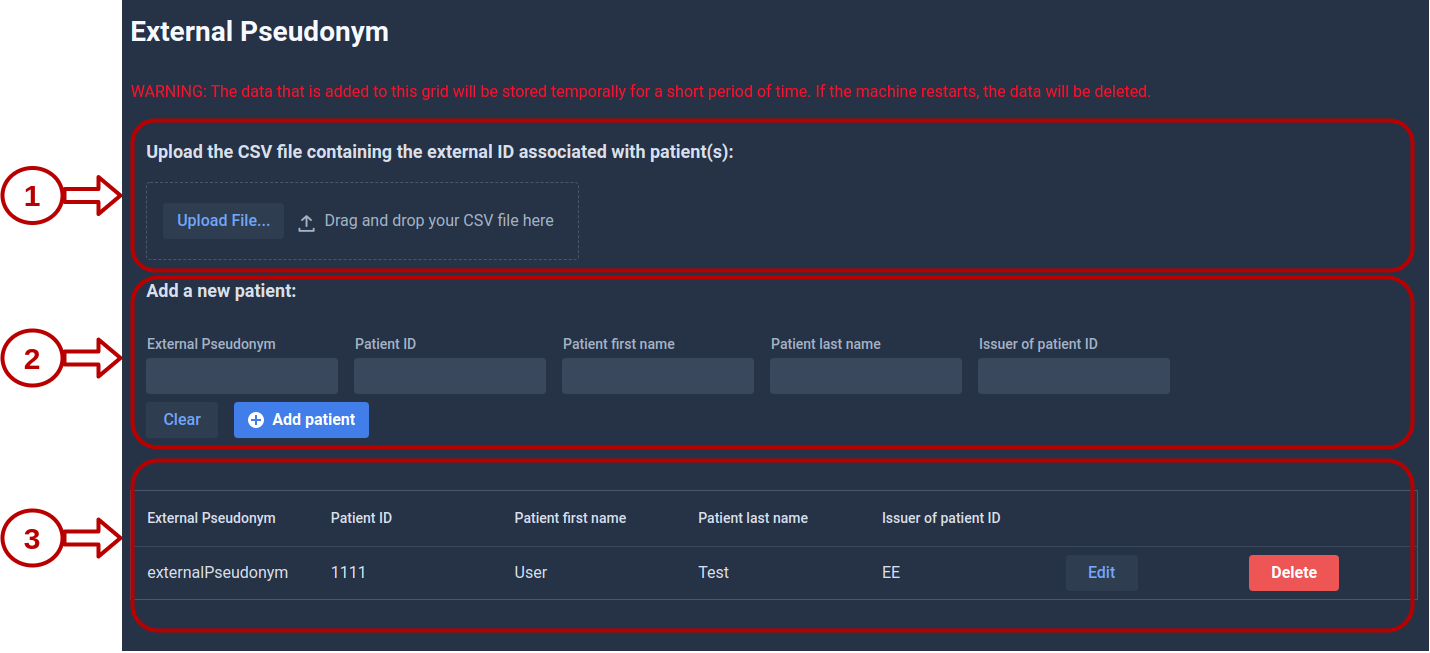
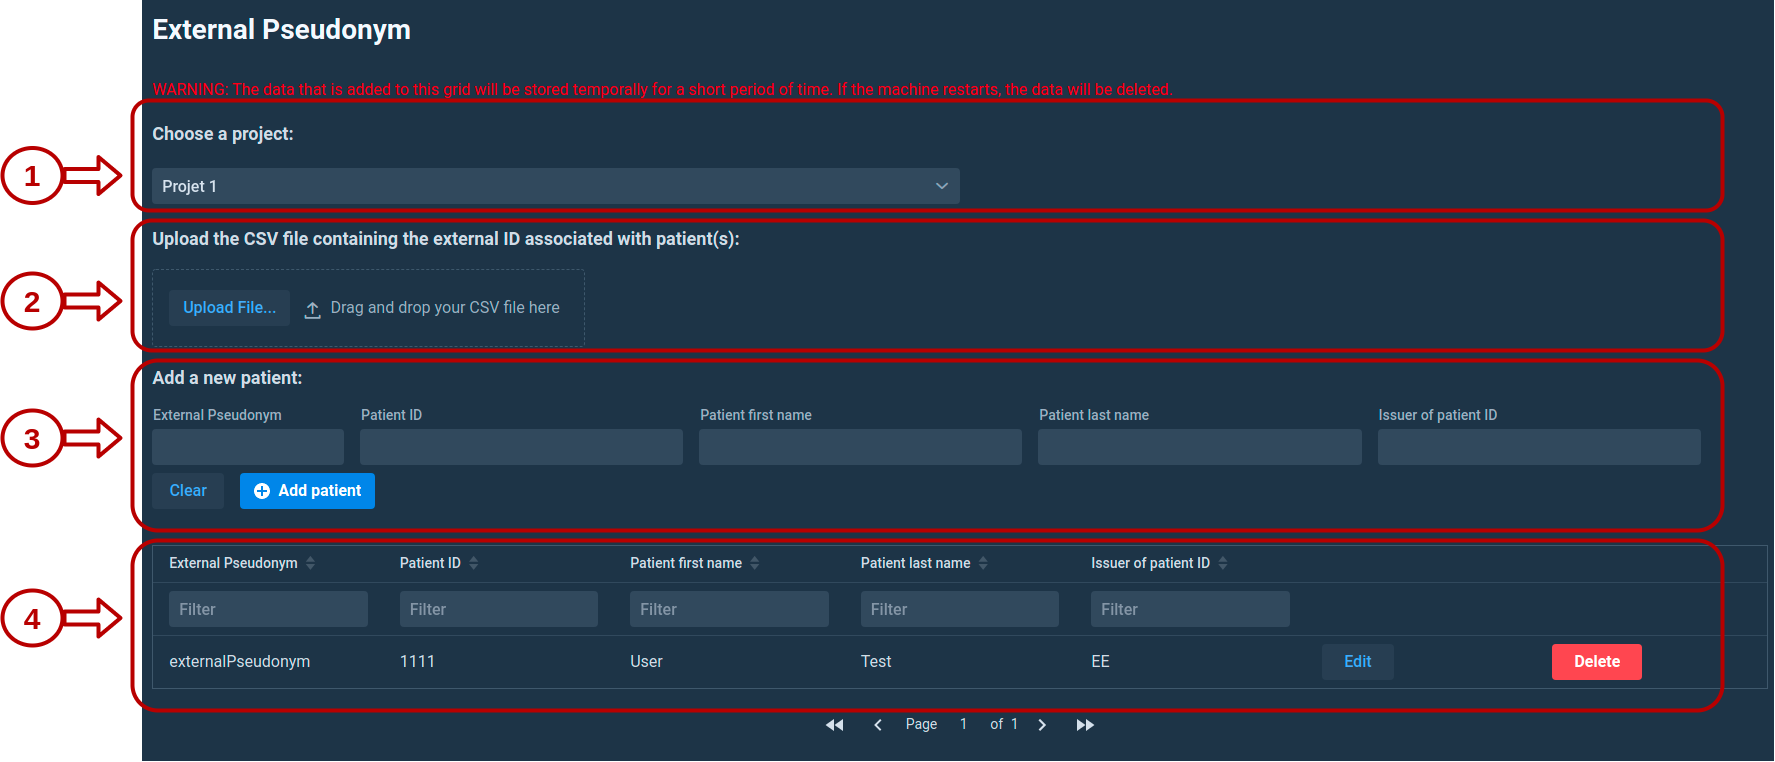
update userguide_extpseudo

diff --git a/docs/userguide/userguide_extpseudo.md b/docs/userguide/userguide_extpseudo.md
@@ -15,7 +15,11 @@ The pseudonyms are stored for a short period of time. Your data is stored in the
 
 ![External pseudonym cache](resources/external_pseudonym_cache.png)
 
-### 1. Upload a CSV file
+### 1. Choose a project
+
+Each external pseudonym is linked to a project. In this way, there is no risk of collision between different external pseudonyms, if they are two similar pseudonym but patient information is different.
+
+### 2. Upload a CSV file
 
 To upload a CSV file containing external pseudonyms, you must click in the "Upload File" button. 
 
@@ -27,27 +31,27 @@ After click "Open CSV" button, a grid will be appear with the CSV file content.
 
 ![External pseudonym CSV Dialog](resources/external_pseudonym_csvdialog.png)
 
-### 1.1 From line
+### 2.1 From line
 
 This input field allows you to indicate from which line you want to start reading the CSV file. Your CSV file may contain headers. If these headers are in line 1 like the above example (EXTERNALID, PATIENTID, LASTNAME, FIRSTNAME, ISSUER_OF_PATIENTID), you can specify the entry "From line" to the value 2. 
 
 ![External pseudonym CSV Dialog 2](resources/external_pseudonym_csvdialog2.gif)
 
-### 1.2 Columns assignements 
+### 2.2 Columns assignements 
 
 Fill in the correct fields with the corresponding columns. All the fields are mandatory, excepted the Issuer of patient ID.
 
 ![External pseudonym CSV Dialog 3](resources/external_pseudonym_csvdialog3.gif)
 
-### 1.3 Upload CSV
+### 2.3 Upload CSV
 
 Click to the "Upload CSV" button to validate the fields with the correct columns to store the externals pseudonyms in KARNAK.
 
-### 2. Add a new patient
+### 3. Add a new patient
 
 It's also possible to add the external pseudonym manually. All the fields are mandatory, excepted the Issuer of patient ID.
 
-### 3. Pseudonym kept temporarily
+### 4. Pseudonym kept temporarily
 
 As explained in the introduction, the pseudonyms are stored for a short period of time in KARNAK. It's possible to edit the patient fields by clicking "Edit"button  or delete a patient by clicking "Delete" button.
 
